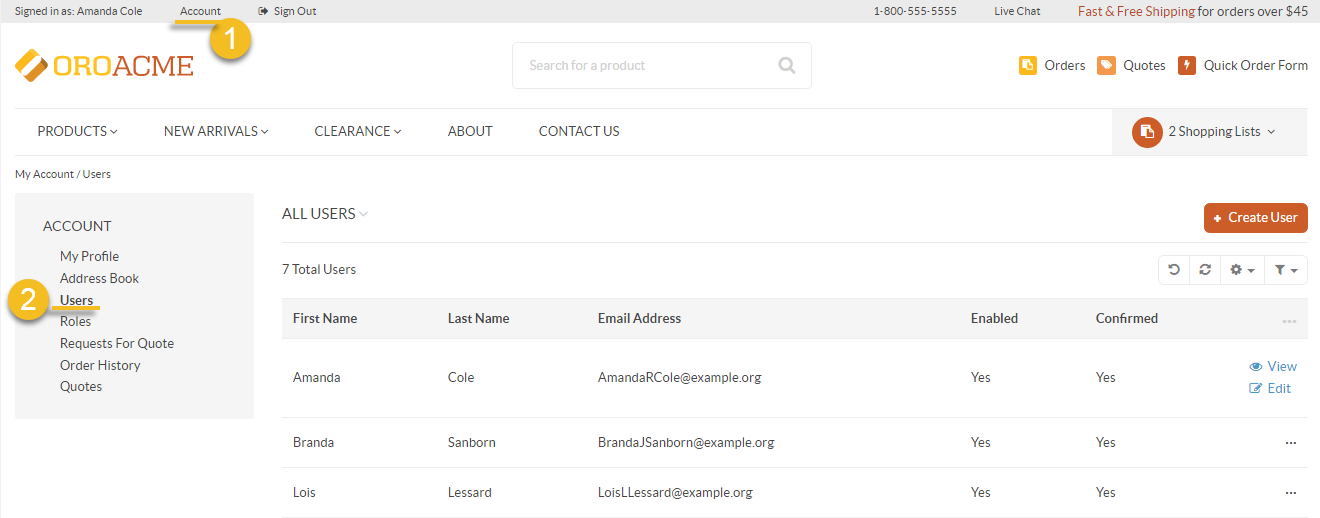
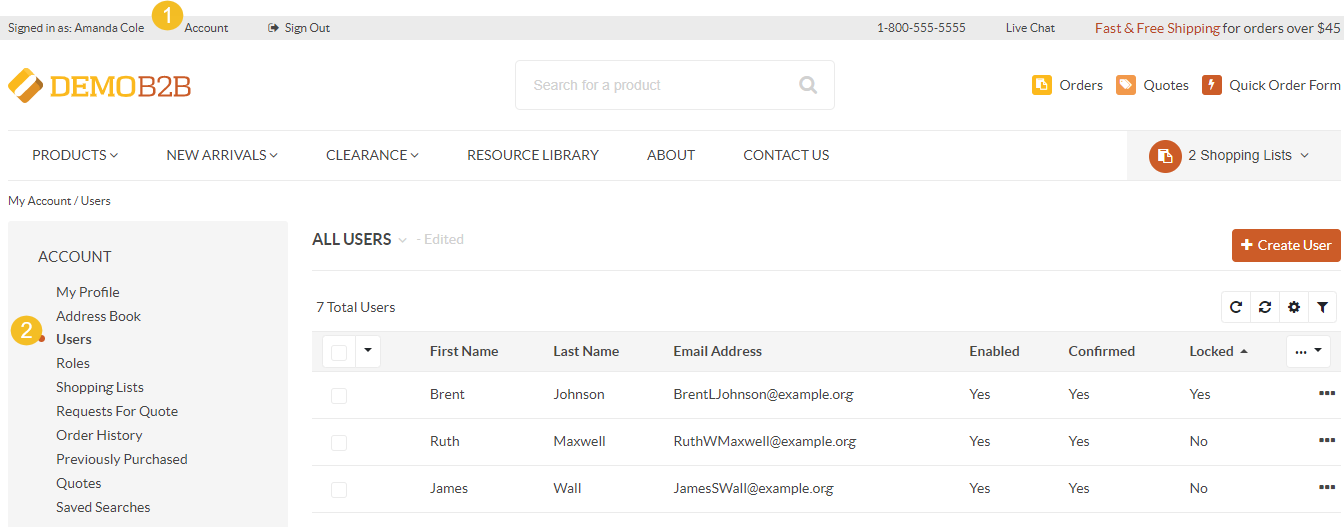
BB-16814: Prevent customer user password bruteforce - additional scope (#31324)

diff --git a/user/back-office/system/configuration/commerce/customer/global-customer-users.rst b/user/back-office/system/configuration/commerce/customer/global-customer-users.rst
@@ -14,6 +14,9 @@ To change the default customer user configuration settings globally:
 
    .. note:: For faster navigation between the configuration menu sections, use :ref:`Quick Search <user-guide--system-configuration--quick-search>`.
 
+   .. image:: /user/img/system/config_commerce/customer/global-customer-user-settings.png
+      :alt: Display the global customer user settings configuration
+
 3. To customize any of the options for customer users:
 
      a) Clear the **Use Default** box next to the option.
@@ -37,9 +40,19 @@ To change the default customer user configuration settings globally:
 
 5. In the **Customer Visitor** section, configure the options for the anonymous users:
 
+   .. image:: /user/img/system/config_commerce/customer/global-customer-user-settings2.png
+      :alt: Display the global customer user settings configuration. Part 2
+
    * **Customer Visitor Cookie Lifetime (Days)** --- Once the provided period expires, active customer visitor (anonymous user) sessions will be reset. Keep in mind that the uniqueness of email addresses and personal data is checked only for the registered users. It means that no two users can have identical personal information unless they are customer visitors (guest users). Multiple guest customers are allowed to have exactly the same data, including email addresses.
 
-6. In the **REST API** section, configure the following options:
+6. In the **Login Attempts** section, configure the following options:
+
+   * **Enable Failed Logins Limit** --- Defines whether a user can be locked out when the max number of login attempts is reached. By default, the option is enabled.
+   * **Max Login Attempts** --- The number of attempts within the login failure lockout interval that a user has to authenticate before they are locked out. By default, the number is set to 10.
+   * **Login Failure Lockout Interval** --- The time in minutes in which failed login attempts are counted. If one failed login attempt is followed by the second failed attempt within this lockout interval, the failed login count starts. The user will be locked out if they reach the maximum number of failed login attempts. Set zero (0) to count failed login attempts globally. By default, it is set to 60 minutes.
+   * **Account Lockout Time** --- The time in minutes that indicates how long the user has before they are locked out of the system if they reach the maximum number of failed login attempts. Set zero (0) to disable automatic unlock. By default, it is set to 60 minutes.
+
+7. In the **REST API** section, configure the following options:
 
    * **Enable API Key Generation** --- Enable/disable automatic generation of API access keys for new customer users.
 

diff --git a/user/back-office/system/user-management/organizations/org-configuration/commerce/customers/organization-customer-users.rst b/user/back-office/system/user-management/organizations/org-configuration/commerce/customers/organization-customer-users.rst
@@ -41,7 +41,14 @@ To change the default customer user configuration settings for an organization:
 
 7. In the **Login as Customer User** section, you can enable user impersonation for a specific organization. User impersonation allows back-office users with the **Impersonate User** :ref:`role capability <admin-capabilities>` to access and operate the OroCommerce storefront as if they were logged in as a specific customer user.
 
-8. In the **Cookies Banner** section, enable a cookie consent banner. A cookie consent banner is the cookie warning that pops up on websites when a user visits the site for the first time.
+8. In the **Login Attempts** section, configure the following options:
+
+   * **Enable Failed Logins Limit** --- Defines whether a user can be locked out when the max number of login attempts is reached.
+   * **Max Login Attempts** --- The number of attempts within the login failure lockout interval that a user has to authenticate before they are locked out.
+   * **Login Failure Lockout Interval** --- The time in minutes in which failed login attempts are counted. If one failed login attempt is followed by the second failed attempt within this lockout interval, the failed login count starts. The user will be locked out if they reach the maximum number of failed login attempts. Set zero (0) to count failed login attempts globally.
+   * **Account Lockout Time** --- The time in minutes that indicates how long the user has before they are locked out of the system if they reach the maximum number of failed login attempts. Set zero (0) to disable automatic unlock.
+
+9. In the **Cookies Banner** section, enable a cookie consent banner. A cookie consent banner is the cookie warning that pops up on websites when a user visits the site for the first time.
 
    .. image:: /user/img/system/user_management/org_configuration/customers/cookie-banner-organization.png
       :alt: Cookie banner section
@@ -54,7 +61,7 @@ To change the default customer user configuration settings for an organization:
 
    * **Landing Page** - Select the landing page with cookie policy of the application, if any. This landing page will be highlighted as a link on the banner. To translate the landing page title to the specific language, click the language button and edit the title as required.
 
-9. Click **Save Settings**.
+10. Click **Save Settings**.
 
 .. include:: /include/include-images.rst
    :start-after: begin

diff --git a/user/storefront/account/users/index.rst b/user/storefront/account/users/index.rst
@@ -13,6 +13,7 @@ To locate users:
 2. Click **Users** in the menu on the left.
 
 .. image:: /user/img/storefront/users_roles/Users.png
+   :alt: Navigation path to the Users section
 
 On the All Users page, you can view and edit the existing users, or create new ones.
 
@@ -25,9 +26,11 @@ The Users grid shows the following data:
 * Email Address
 * Enabled
 * Confirmed
-* More Actions (View, Edit, Enable/Disable, Delete).
+* Locked
+* More Actions (View, Edit, Enable/Disable, Delete, Unlock).
 
-.. image:: /user/img/storefront/users_roles/UsersActions.png
+.. image:: /user/img/storefront/users_roles/users-actions.png
+   :alt: Display the actions that a user can perform from the Users section
 
 Within the table you have the following :ref:`action buttons <frontstore-guide--navigation-action-buttons>` available:
 

diff --git a/user/back-office/customers/customer-users/index.rst b/user/back-office/customers/customer-users/index.rst
@@ -20,8 +20,9 @@ In Customer Users section, you can:
 * View requests for quotes, quotes, sales orders, and shopping lists created by the customer user.
 * View communication with the customer that happened using email, notes or scheduled events.
 * View additional information attached to customer user.
-* Enable and disable the customer.
+* Enable and disable the customer user.
 * Reset the customer user password.
+* Unlock the customer user that was locked out when the max number of login attempts is reached.
 * Add OAuth applications
 
 .. note:: You can delegate this function to the customer who will access user and role management in the OroCommerce storefront (see the :ref:`Delegating Users and Role Management to the Customer <user-guide--customers--customer-user-delegate>` section for more information).
